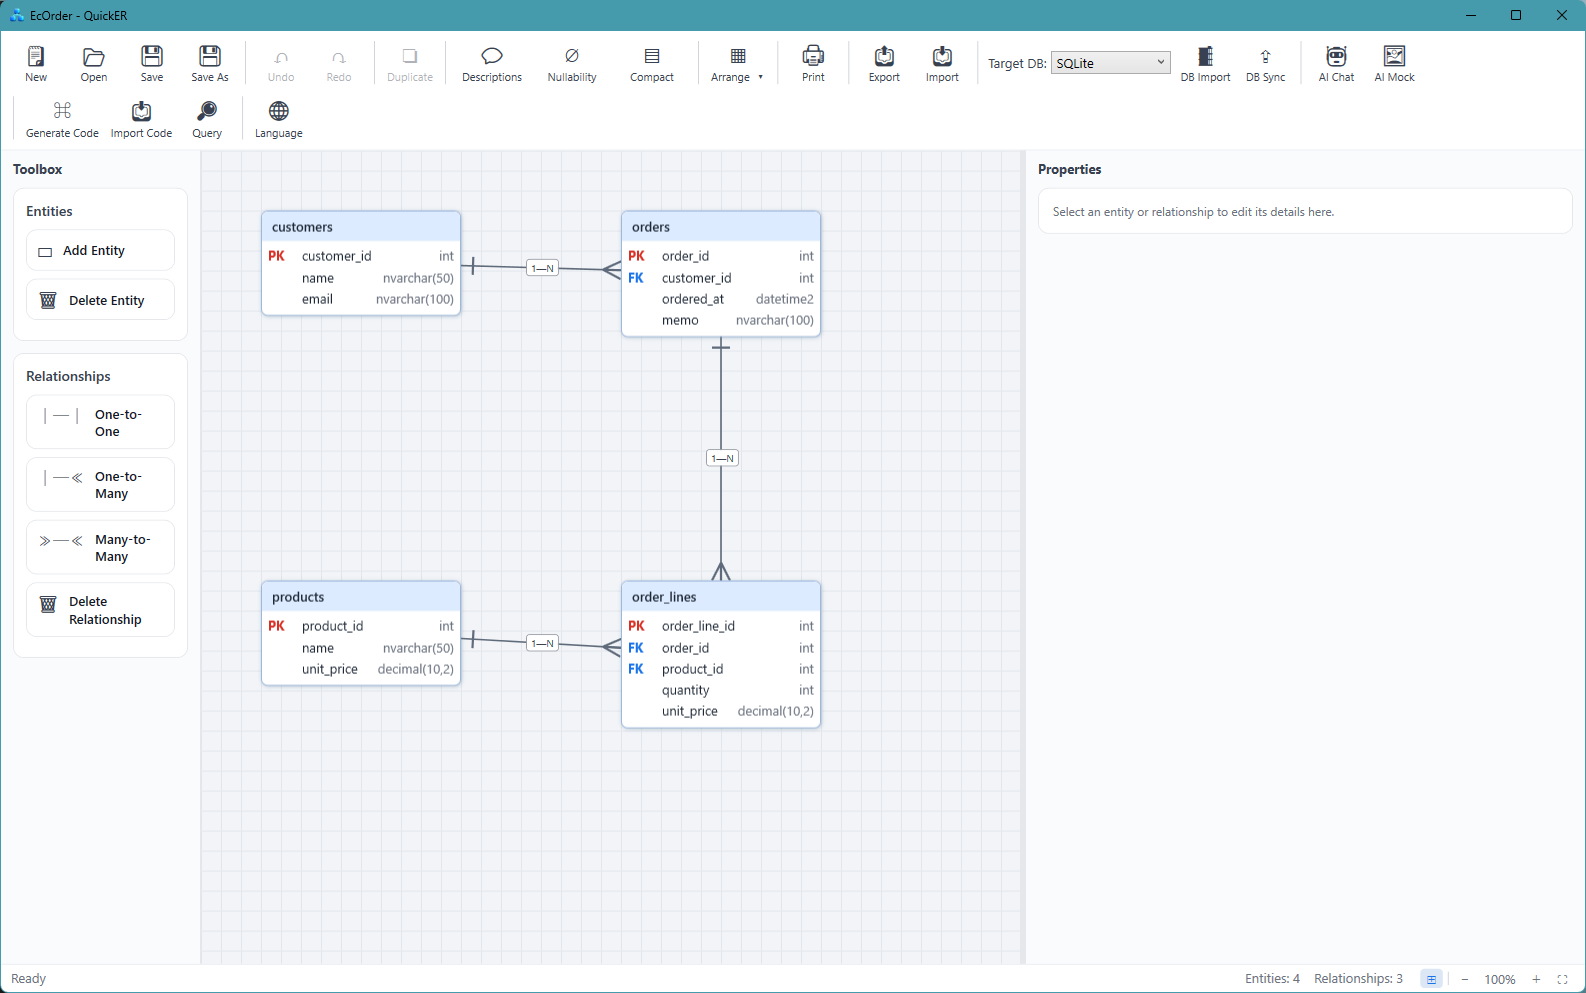
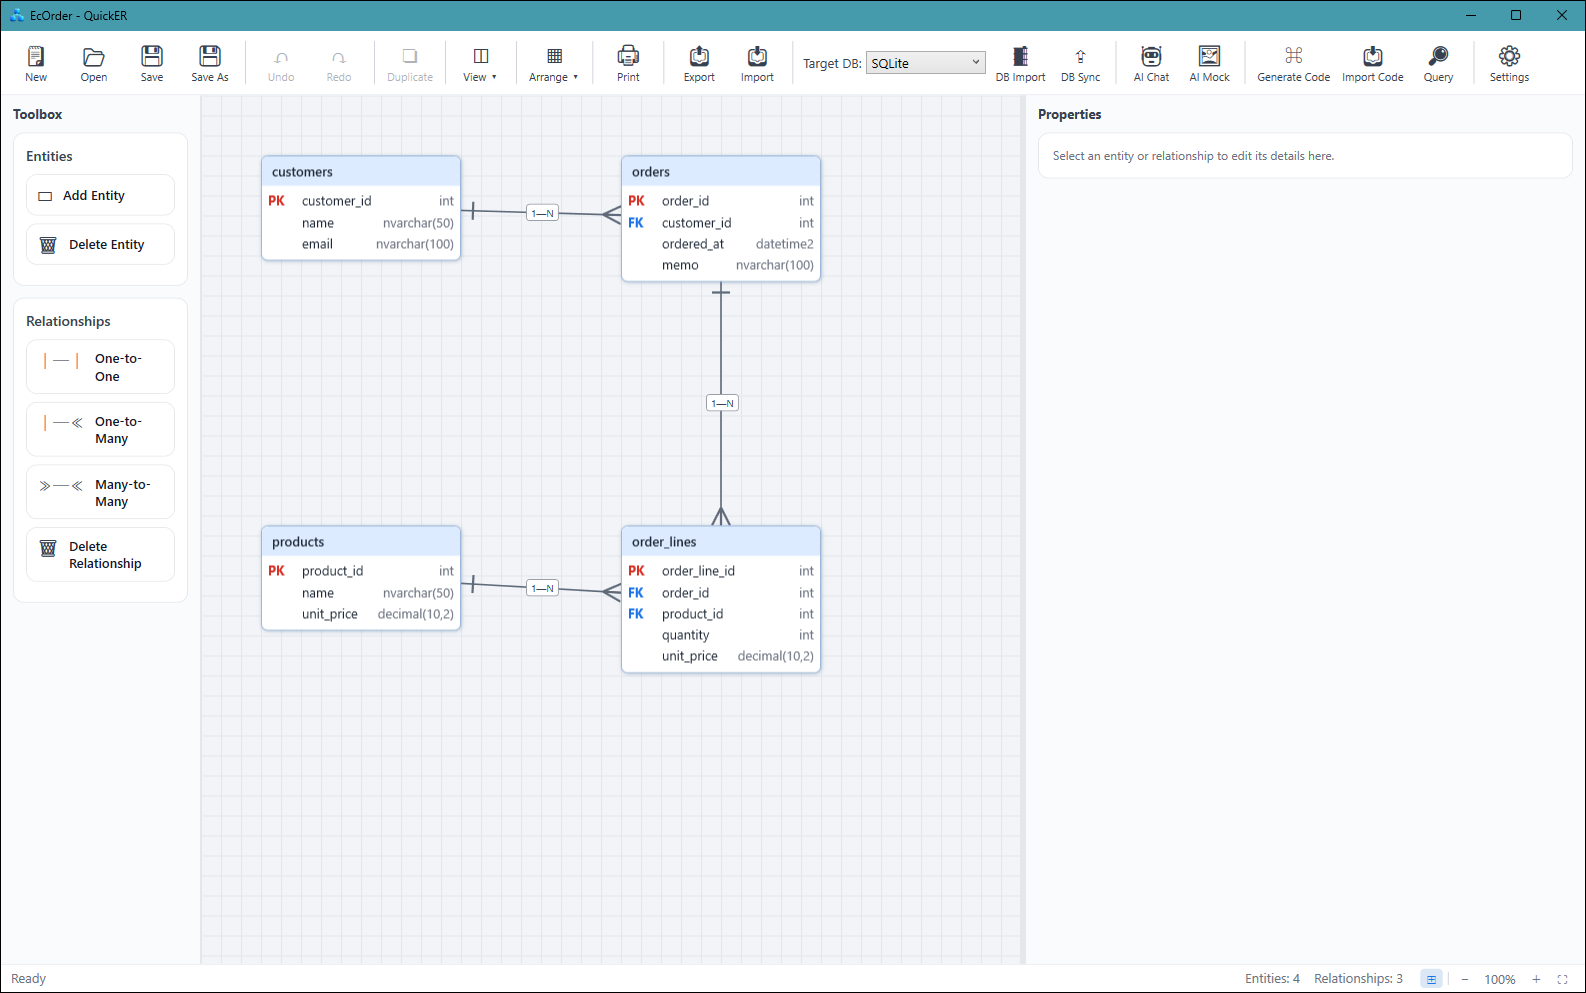
GUI の変更に合わせて README の画像を撮り直し、AI チャットは GIF にする
このセッションでツールバーが 2 行から 1 行になり（表示トグルが「表示」グループへ入り、
言語ボタンが設定ボタンへ替わった）、大きな図の初期表示倍率も変えたため、ツールバーが
写っている画像がすべて古くなっていた。

差し替えたもの:

- sample-ec-order（英日）= メイン画面。samples/ec-order/EcOrder.json を開いた状態
- er-editing.gif = 編集デモ。エンティティ追加 → ドラッグ移動 → 1 対多の関連線 →
  Undo → Redo を自動操作で流して撮り直した。1100x688 から 1586x760 へ（これが
  ツールバーが 1 行に収まる最小幅で、静止画と見た目が揃う。旧サイズのままだと
  プロパティパネル 560px でキャンバスがほぼ潰れる）。649KB から 138KB へ
- ai-chat（英日）= 静止画をやめて GIF へ。依頼の入力 → テーブルが次々に生成される
  様子 → 完了後の全体表示、を 4 秒間隔で撮って 300ms で早回しした（12 秒前後・
  585KB / 664KB）。実際に Claude Code で 1 回ずつ生成しており、英日とも 8 テーブル・
  9 リレーションになった。README のキャプションへ早回しである旨を追記

db-sync と ai-mock はダイアログ単体でツールバーが写らないため変更していない。

撮影は PrintWindow（PW_RENDERFULLCONTENT）でウィンドウを直接描かせ、DWM の可視枠
（DWMWA_EXTENDED_FRAME_BOUNDS）との差分を切り落とす方式にした。画面コピーだと影と
背景が縁に乗るため、上下に写り込みが出ない形を構造的に選んでいる。静止画の寸法は
旧画像と同じ 1586x993。AI チャットは 2 つのウィンドウが重なる合成カットなので画面
コピーが要るが、こちらも可視枠ぴったりを取り、カーソルは実物のアイコンを重ねている。

GIF は全フレームから 1 つのパレットを作ってから差分最適化を掛けた（フレームごとに
最適パレットを持たせると色は良いが 1MB を超える。1 枚目だけのパレットで代用すると、
後から現れる表の色が濁る）。

diff --git a/README.ja.md b/README.ja.md
@@ -127,7 +127,7 @@ EC サイトの受注管理に必要なテーブルを設計して
 - Claude Code
 - Copilot（GitHub Copilot CLI）
 
-![AI チャットで受注管理のテーブル一式を生成した例（Claude Code 接続）](docs/images/ai-chat.ja.png)
+![AI チャットで受注管理のテーブル一式を生成した例（Claude Code 接続・早回し）](docs/images/ai-chat.ja.gif)
 
 設定方法は [AI チャットの設定](docs/ai-chat.ja.md) を参照してください。
 

diff --git a/README.md b/README.md
@@ -127,7 +127,7 @@ Supported connection methods:
 - Claude Code
 - Copilot (GitHub Copilot CLI)
 
-![Generating a full set of order-management tables through AI chat (Claude Code connection)](docs/images/ai-chat.png)
+![Generating a full set of order-management tables through AI chat (Claude Code connection, sped up)](docs/images/ai-chat.gif)
 
 See [Configuring AI chat](docs/ai-chat.md) for how to set it up.
 
